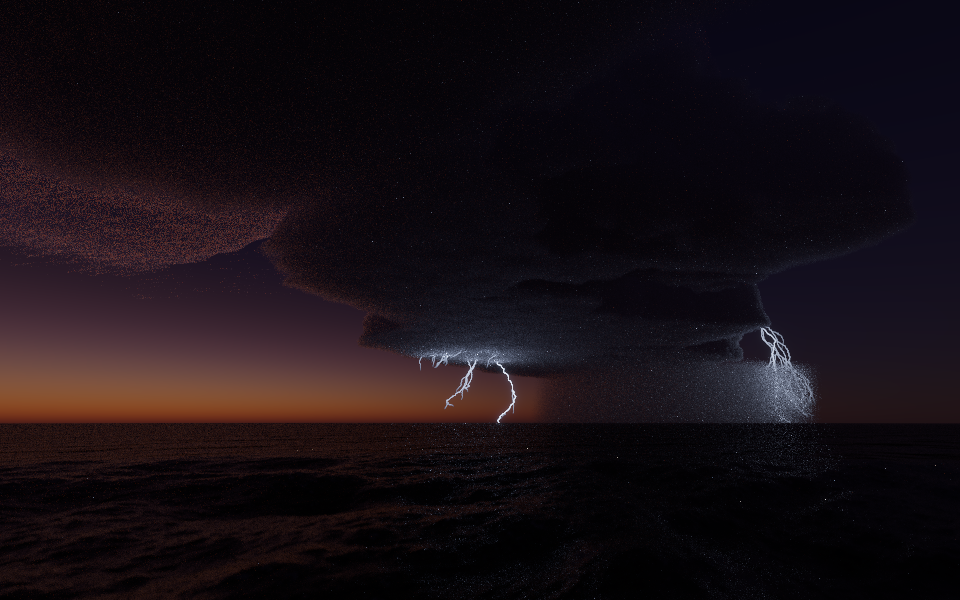
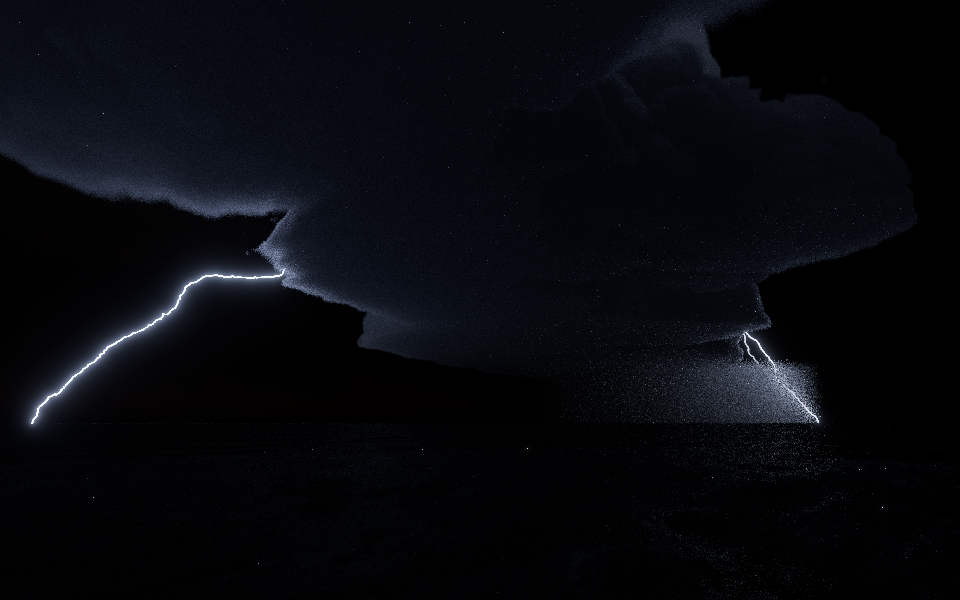
Lightning scene: a night storm lit from within
The strike leaves the storm's flank at 7.5 km and crosses clear air to the
sea in front of it; an intracloud flash in the upper tower lights the whole
cloud through the diffusion approximation; night, exposed as a night
photograph of lightning is.

Claude-Session: https://claude.ai/code/session_01U8ZZinkEy4uK9PmdkwJuJu

Changed region(s): [[0.0, 0.18, 1.0, 0.81], [0.0, 0.84, 0.5, 1.0], [0.6562, 0.03, 0.75, 0.12]]

diff --git a/CLAUDE.md b/CLAUDE.md
@@ -5,12 +5,12 @@ Rays.rust is a raytracer written in Rust with the following features:
 - Whitted tracing and path tracing with Monte-Carlo global illumination
 - Material models: Lambertian, Specular, Dielectric, Plastic, Leaf (translucent, `src/material/leaf.rs`), procedural Rock (layered by elevation and bed, festoon cross-bedding shared with terrain relief (`rock::cross_beds`), honeycomb pits, desert varnish, flutes; `fractal` turbulent bump mapping down to the pixel's footprint, and `crackle` fractures, for close-up detail) and Soil (`src/material/soil.rs`: mottled topsoil, stones, litter and moss; loam, clay, sand, desert, forest_floor); bump mapping via an object's "normal" (src/material/bump.rs, docs/bump-mapping.md)
 - Objects: Sphere, Plane, Mesh, OBJ file import; transforms and instancing of named "geometries"; POV-Ray's shapes (cylinder, cone, torus, blob, isosurface, text and more; see docs/shapes.md, parsed in src/scenefile_shapes.rs), combined by CSG (src/shapes/csg.rs); mountains (`"mountains"`: ridged-noise heightfield with snow, rock and vegetation; `"cloud"` raises hill cloud over it, `src/procedural/hill_cloud.rs`: damp air lifted past saturation caps the summits and streams downwind, joining an `overcast` deck's volume (`volume::Sum`) to be lit through its column), and a planet (`"planet"`: the ground as a sphere of the Earth's radius); clouds can cover the whole planet (`"mapping": "global"`: an equi-angular cube-sphere weather map and a planet-wide wind field), seen from orbit in `demo/scenes/orbit.json` (and the bare atmosphere at the limb and from the stratosphere: `limb-sunset.json`, `stratosphere.json`)
-- Participating media: boxes or closed shapes (`"shape"`: media inside dielectrics) of constant, noise-driven or voxel-grid density (`src/volume/grid.rs`: Mitsuba `.vol`, pbrt's DDA majorant grid; delta tracking with local majorants, ratio-tracked shadows); chromatic media (`"sigma_a"`/`"sigma_s"` per channel) tracked by pbrt's spectral MIS (`src/volume/chromatic.rs`: a hero channel per path, ratios settled at the nearest hit and applied as `chromatic::weight()` where light is gathered; shadow transmittance is a `Color`); emissive media (`src/volume/emission.rs`: colour or blackbody temperature grids); Henyey-Greenstein or Mie (water droplet) phase, with delta-M truncation of its forward peak wherever the camera doesn't see the medium directly (`"delta_m"`, on by default: `Volume::truncated` for segments leaving a surface, `volume::at_vertex`; the camera's first scattering keeps the whole phase function); diffraction by particles (coronae, iridescence); ice-crystal halos traced through hexagonal prisms (sun dogs, 22°/46° halos, circumzenithal arc); rainbows traced through raindrops (`"rainbow": true`: primary and secondary bows, Alexander's dark band); optional similarity and Oz multiple-scattering approximations, and diffusion for thick decks (`"diffusion"`: at a path's first vertex in the medium, sunlight diffused through a slab as thick as the column through it, `DensityField::column_depths`; later vertices there skip the sun)
+- Participating media: boxes or closed shapes (`"shape"`: media inside dielectrics) of constant, noise-driven or voxel-grid density (`src/volume/grid.rs`: Mitsuba `.vol`, pbrt's DDA majorant grid; delta tracking with local majorants, ratio-tracked shadows); chromatic media (`"sigma_a"`/`"sigma_s"` per channel) tracked by pbrt's spectral MIS (`src/volume/chromatic.rs`: a hero channel per path, ratios settled at the nearest hit and applied as `chromatic::weight()` where light is gathered; shadow transmittance is a `Color`); emissive media (`src/volume/emission.rs`: colour or blackbody temperature grids); Henyey-Greenstein or Mie (water droplet) phase, with delta-M truncation of its forward peak wherever the camera doesn't see the medium directly (`"delta_m"`, on by default: `Volume::truncated` for segments leaving a surface, `volume::at_vertex`; the camera's first scattering keeps the whole phase function); diffraction by particles (coronae, iridescence); ice-crystal halos traced through hexagonal prisms (sun dogs, 22°/46° halos, circumzenithal arc); rainbows traced through raindrops (`"rainbow": true`: primary and secondary bows, Alexander's dark band); optional similarity and Oz multiple-scattering approximations, and diffusion for thick decks (`"diffusion"`: at a path's first vertex in the medium, sunlight diffused through a slab as thick as the column through it, `DensityField::column_depths`, and point/area lights (lightning) diffused out of the medium along the line to each sample, `VolumeMaterial::diffused_fraction`, through `material::functions::sample_lights_through`; later vertices there skip both)
 - Skysphere with Rayleigh and Mie Scattering (radiance per unit of the `"sun"`'s irradiance: with a sun the sky's `brightness` follows its `intensity`, `SceneFile::sky_follows_sun`), and aerial perspective (distant objects attenuated and hazed by the same atmosphere); `"crepuscular_rays": true` lets clouds and terrain shadow the air (sunbeams)
 - The rest of the universe (`"background": {"type": "space"}`, `src/procedural/space/`, docs/space.md): procedural stars (luminosity function, black-body colours), the Milky Way's glow and dust lanes, emission, reflection, planetary and dark nebulae, and spiral and elliptical galaxies; physically bright (magnitudes against the sun's, so it takes a night exposure, `"output": {"exposure": ...}`) unless `brightness` scales it; seen through a skysphere's air by its transmittance, and skipped where the sky outshines it (`threshold`) (`demo/scenes/deep-space.json`, `night-orbit.json`)
 - Moons (`"moon"`, `src/celestial/`, docs/moon.md): real spheres at their true distance (placed by `direction`, a Keplerian `orbit` or `position`; tidally locked, with libration) with a seeded cratered surface (Pike's crater shapes, saturated crater populations, basins, near-side maria, rays; relief shadows near the terminator) reflecting the sun by Hapke's model fitted to the Moon's phase curve (so physically bright), lit by earthshine and eclipsed by the planet; its reflected light lights the scene and the night sky (`Moonlight`, `Scene::moonlight`, sampled like the sun via `Scene::directional_lights`); `demo/scenes/moon.json`, `moonrise.json`, `moon-daytime.json`, `moon-crescent.json`
 - Planets (docs/planets.md, `src/celestial/`): gas and ice giants (`"gas_giant"`: Jupiter, Saturn, Uranus, Neptune presets or seeded; oblate spheroids, `shape.rs`; cloud bands grown from the jets' shear and the clouds advected by jets, turbulence and vortices, `bands.rs`; Hapke cloud-deck photometry calibrated to geometric albedo, `giant.rs`; moons' shadows on them), rings (`rings.rs`: optical-depth profiles, Saturn's measured, seeded ones with resonance gaps; single scattering lit/unlit faces, transmission, shadows both ways, filtered τ), rocky and icy worlds as `moon` presets (`terrain.rs`: mercury, mars, callisto, ganymede, europa, io, seeded rocky/icy), and `"world"`: any of these from one seed (`celestial::world_object`); `demo/scenes/saturn.json`, `saturn-shadows.json`, `jupiter.json`, `ice-giants.json`, `worlds.json`, `worlds-from-seeds.json`
-- Lightning (`"lightning"`, `src/procedural/lightning.rs`): a channel grown as a stepped leader (16° tortuosity, branching, the race to the ground decides the main channel; fractal detail by midpoint displacement; branches glow by the channel beyond them), cloud-to-ground or intracloud; physically bright (lumen-seconds per metre per stroke over the `shutter`, on the sun's scale, `SceneFile::lightning_follows_sun`); an emitter sampled segment by segment through its own light BVH (`Channel::sample_from`), widened to half a pixel from the camera keeping its light per metre, casting no shadow; `demo/scenes/lightning.json`
+- Lightning (`"lightning"`, `src/procedural/lightning.rs`): a channel grown as a stepped leader (16° tortuosity, branching thinning by generation, the race to the ground decides the main channel; fractal detail by midpoint displacement; branches glow by the channel beyond them), cloud-to-ground or intracloud; physically bright (lumen-seconds per metre per stroke over the `shutter`, on the sun's scale, `SceneFile::lightning_follows_sun`); an emitter sampled segment by segment through its own light BVH (`Channel::sample_from`), widened to half a pixel from the camera keeping its light per metre, casting no shadow; `demo/scenes/lightning.json`
 - Directional sun light (`"sun"`), sampled directly; follows the skysphere's sun and is reddened by its atmosphere
 - Procedural objects including Ocean (Tessendorf's algorithm with Phillips spectrum; the planet's surface by default, or a plane with `"planet_radius": 0`: displaced near the camera, physically lit, with sun glitter and slopes calibrated to Cox and Munk, and whitecaps over Monahan's fraction for the wind, `ocean::Foam`, on steep crests in lace and streaks; scenes set `wind` to their weather) and volumetric clouds: cumulus to stratus (`"nubis_clouds"`, after Horizon Zero Dawn's Nubis) and cirrus with fallstreaks (`"hogan_kew_cirrus"`, after Hogan and Kew), altocumulus as convection cells (`"benard_altocumulus"`: Rayleigh-Bénard cells, rows, undulatus waves), lenticular clouds over a mountain's lee waves (`"lenticular"`: stacked plates from moist layers), mammatus under an anvil (`"mammatus"`), cumulonimbus (`"cumulonimbus"`, `src/procedural/cumulonimbus.rs`: a tower shaped by parcel theory, its overshooting top w / N from CAPE, glaciating above `glaciation`, a flanking line, and an anvil carried by the wind aloft), the overcast of bad weather (`"overcast"`, `src/procedural/overcast.rs`: a nimbostratus deck kilometres thick whose underside hangs in lumps along the wind, with scud below; lit through `"diffusion": true`), rain shafts and virga (`"precipitation"`: Marshall-Palmer extinction by rain rate, shear, evaporation), and cumulus grown by simulating a sunny day (`"harris_cumulus"`: stable fluids with buoyancy, condensation, latent heat and subgrid turbulence, through the ARM shallow-cumulus case's day; cached so `scripts/animate.py` can render it boiling and dissipating)
 - Procedural trees and bushes (Weber and Penn's parametric model, `src/procedural/tree.rs`; bushes: shrub, hazel, hawthorn, juniper; desert: creosote-bush, joshua-tree, utah-juniper), and desert plants grown as tree species with a `form` (`src/procedural/succulent.rs`: saguaro, barrel-cactus, prickly-pear, agave, ocotillo, and `mound` shrubs sagebrush and rabbitbrush; body as "bark", spines as "leaves"; `demo/scenes/desert-plants.json`), forests of instanced

diff --git a/demo/cloud-atlas.md b/demo/cloud-atlas.md
@@ -421,13 +421,16 @@ scene uses Reinhard tone mapping with an exposure of 3, as a photograph at dusk 
 
 ![Lightning](./scenes/lightning.png)
 
-`lightning.json`: `{"type": "lightning", "start": [1200, 4500, 10500], "target": [3200, 7200], "seed": 5}`, in
-the cumulonimbus at nautical dusk
+`lightning.json`: `{"type": "lightning", "start": [2000, 7500, 9000], "target": [8000, 4000], "seed": 5}`
+and `{"type": "lightning", "kind": "intracloud", "start": [500, 8000, 9500], "cloud_length": 25000}`,
+in the cumulonimbus at night (`"diffusion": true`)
 
-Two cloud-to-ground strokes caught in a one-second exposure at dusk. The bolts glow
-blue-white and light everything near them: the cloud base above, the rain the second one falls
-through, and the sea below, which reflects them. The storm is otherwise a silhouette against
-the last of the twilight.
+A one-second exposure of a thunderstorm at night. A cloud-to-ground stroke leaves the storm
+high on its flank, at 7.5 km where the leader set out from the charge region, runs out across
+clear air and comes down kilometres in front of the rain; a second strikes through the rain
+shaft, lighting the curtain it falls through. Inside the upper tower an intracloud flash
+spreads through 25 km of channel, and the whole storm glows with its light, against a black
+sky.
 
 The channel is grown as a *stepped leader* (`procedural::lightning`). Leader tips push down
 from the cloud's charge region in steps of tens of metres (`step`), each turning by about 16°
@@ -439,15 +442,18 @@ to a couple of metres (`detail`, `roughness`), so the channel is jagged at every
 branches that lost the race carry only the charge stored along them, so each glows in
 proportion to the length of channel beyond it, fading towards its tips. Inside the cloud the
 flash spreads sideways in a fainter network (`cloud_length`); `"kind": "intracloud"` gives that
-network alone, sheet lightning.
+network alone, sheet lightning. Each generation of branch forks a third as often as the one it
+grew from, so a flash has a few dozen branches, not a bush.
 
 It is as bright as the real thing. A return stroke radiates a few hundred joules per metre in
 the visible and near infrared (Krider et al. 1968), about 1.5·10⁴ lumen-seconds per metre
 (`luminous_energy`); averaged over `strokes` strokes and the `shutter` time, that is the light
 per metre of channel, on the same scale as the sun (whose intensity, 4.9 here, it follows). A
 metre or so from the channel it is far brighter than daylight; a kilometre away it gives a few
-lux, tens of times full moonlight. So the scene is exposed as a night photograph would be
-(`"exposure": 500`), the channel itself blown out, with glare. Its colour is a blackbody at
+lux, tens of times full moonlight: a stroke a kilometre away gives a few lux-seconds, which
+is why lightning is photographed at f/8 and ISO 100 to 400, and its glow inside a cloud at
+ISO 1600 or more. So the scene is exposed as a night photograph would be (`"exposure": 3000`),
+the channel itself blown out, with glare. Its colour is a blackbody at
 25 000 K, near the channel's temperature, an approximation to its spectrum of nitrogen, oxygen
 and hydrogen lines.
 
@@ -458,9 +464,16 @@ samples would miss it; what a camera records of it there is its light per metre,
 segment is widened to half a pixel as seen from the camera, its radiance lowered to keep its
 light per metre (`pixel_width`). The channel casts no shadow.
 
-Light from a channel deep inside a dense cloud reaches the camera only after many
-scatterings, which a path tracer finds by chance, so the glow of lightning inside a cloud is
-noisy; flashes under the cloud base or the anvil, or in rain, are lit cleanly.
+A cloud absorbs next to nothing, so light from a channel inside it can't go anywhere but out:
+nearly all of it emerges, after hundreds of scatterings, and the cloud glows. A path tracer
+finds those paths only by chance, so the storm uses the diffusion approximation
+(`"diffusion"`, as overcast decks do for sunlight): at a path's first vertex in the cloud, each
+light sample's direct light is attenuated as usual, and what it loses on the way arrives
+diffused. In diffusion theory a source at reduced optical depths τ'f from one side of a slab
+and τ'b from the other sends a fraction (τ'b + ⅔) / (τ'f + τ'b + 4⁄3) out of the first, so
+the depths towards the light and beyond it are measured through the cloud's density along the
+same line. A flash deep in the cloud lights it broadly and softly; one near its surface
+brightly, nearby.
 
 ### Iridescence
 
@@ -488,9 +501,10 @@ is still noisy: from orbit, cloud detail is much smaller than a pixel.
 
 ## Not yet
 
-- **Lightning inside dense cloud**: in-cloud flashes light the cloud only through many
-  scatterings, which are noisy to trace; a diffusion approximation for light from inside a
-  cloud (as `"diffusion"` gives for sunlight) would light it cleanly.
+- **Lightning seen through cloud**: the diffusion approximation lights a cloud from a flash
+  inside it, but light doesn't spread sideways from the line to each light sample, so the
+  glow isn't concentrated around channels just under the surface as much as it should be;
+  and channels crawling under the anvil are hidden from this scene's camera.
 - **Cumulonimbus by simulation**: `harris_cumulus` could grow one, with a deeper grid, a weaker
   inversion and ice microphysics; the `cumulonimbus` generator shapes it from parcel theory
   instead.
